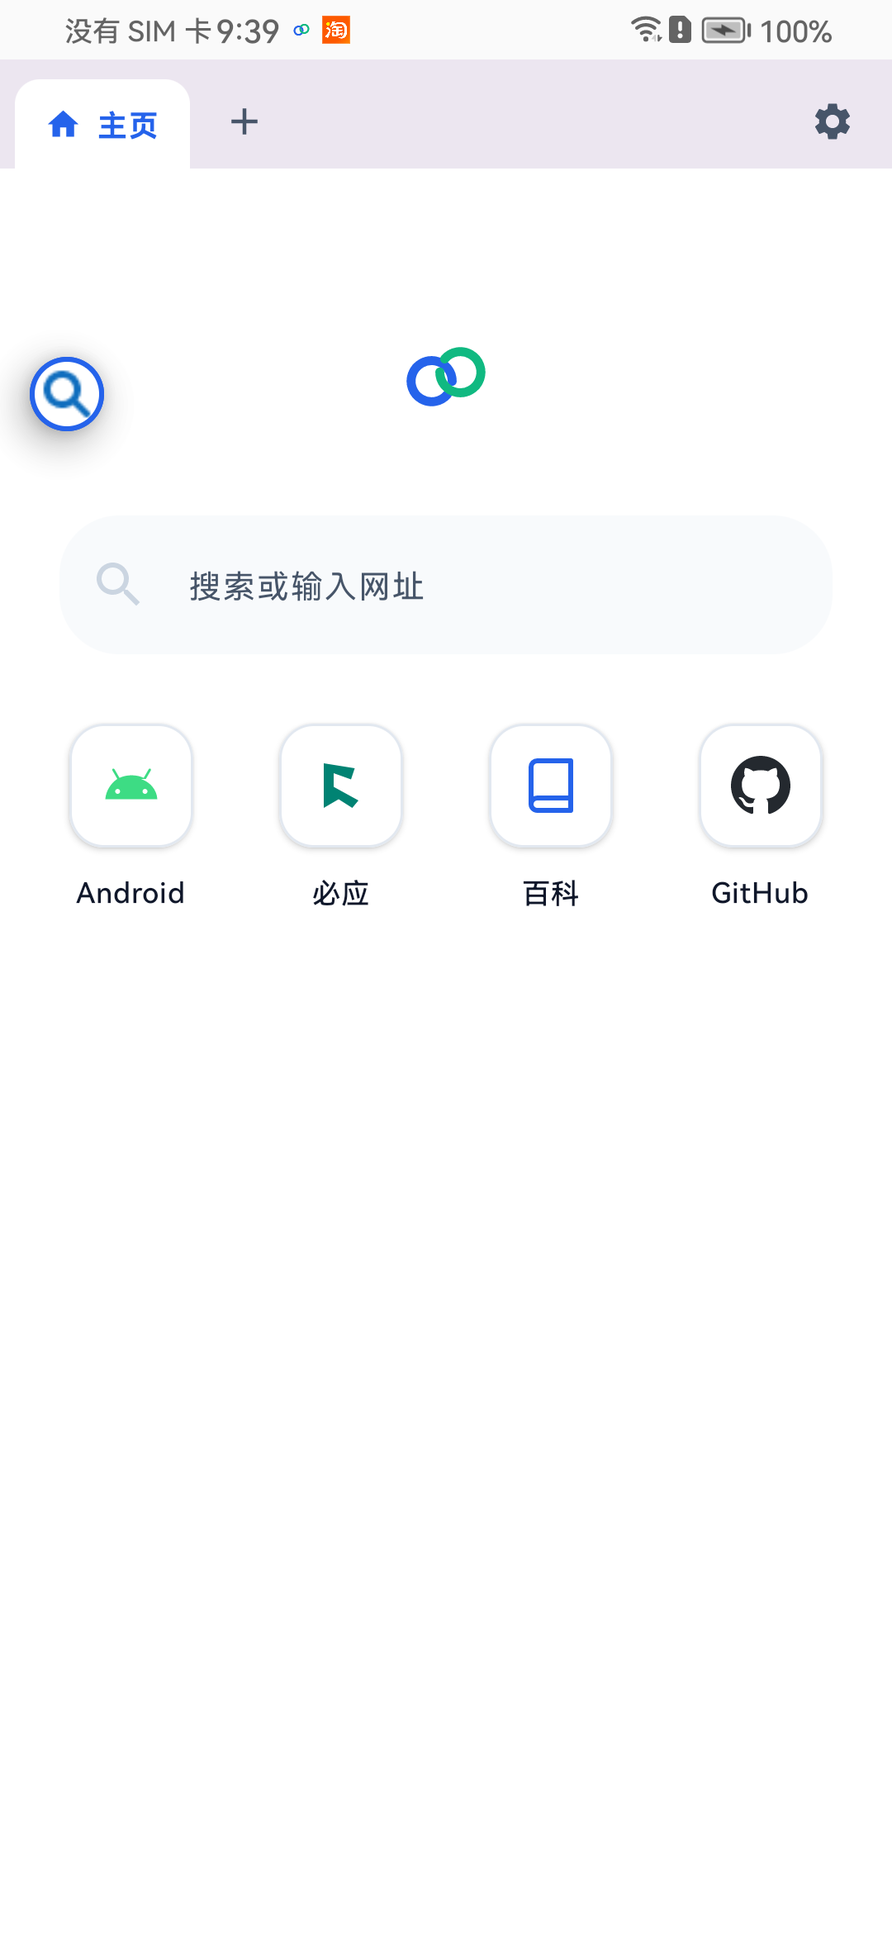
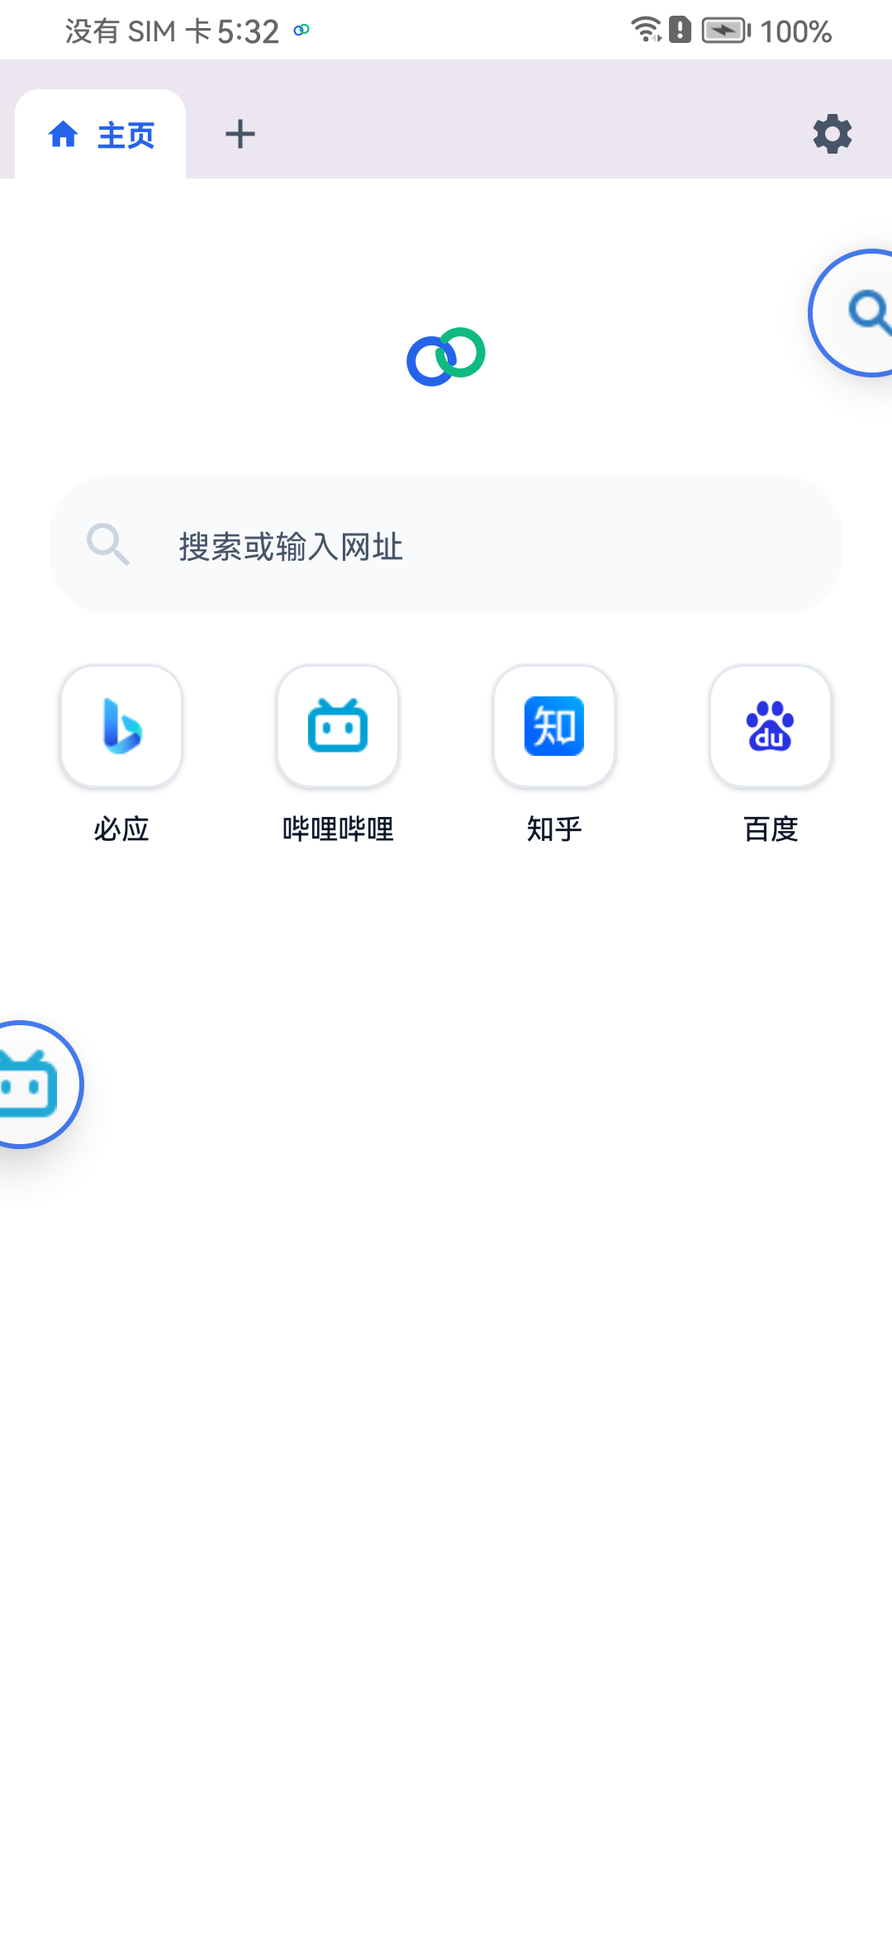
docs: update README with real showcase screenshots, concise factual copy, and English version

diff --git a/README.md b/README.md
@@ -1,145 +1,95 @@
 # FloatBro
 
-> **现代 Android 原生全局悬浮、对等双视口分屏、纯 C++ 规则引擎拦截的高性能多任务浏览器**
+[English](README_EN.md) | [简体中文](README.md)
+
+> 现代轻量级 Android 全局网页悬浮多任务浏览器。
 
 [![Latest Release](https://img.shields.io/github/v/release/gxwane/floatbro?include_prereleases&color=orange&label=Latest%20Release)](https://github.com/gxwane/floatbro/releases)
 [![Build Status](https://img.shields.io/github/actions/workflow/status/gxwane/floatbro/pr-checks.yml?branch=main&label=Build%20Status)](https://github.com/gxwane/floatbro/actions)
 [![License: GPL v3](https://img.shields.io/badge/License-GPLv3-blue.svg)](https://www.gnu.org/licenses/gpl-3.0)
 [![Android MinSdk](https://img.shields.io/badge/minSdk-26-green.svg)](https://developer.android.com/about/versions/oreo)
 [![TargetSdk](https://img.shields.io/badge/targetSdk-36-brightgreen.svg)](https://developer.android.com)
-[![Kotlin](https://img.shields.io/badge/Kotlin-2.1.20-blue.svg)](https://kotlinlang.org)
-[![Compose](https://img.shields.io/badge/Jetpack%20Compose-M3-purple.svg)](https://developer.android.com/compose)
-[![16KB Page Size](https://img.shields.io/badge/Android%2015-16KB%20Aligned-success.svg)](https://developer.android.com/guide/practices/page-sizes)
 
 ---
 
-## 📸 界面预览 (Showcase)
+## 📸 界面预览
 
-| 🪟 全局独立悬浮 | ➗ 对称双视口分屏 | 🫧 贴边磁吸小气泡 |
+| 🪟 全局独立悬浮 | 🪟 多悬浮窗同屏 | 🫧 贴边磁吸气泡 |
 | :---: | :---: | :---: |
-| ![FloatBro Window](docs/images/floatbro_window.png) | ![FloatBro Split](docs/images/floatbro_split.png) | ![FloatBro Bubble](docs/images/floatbro_bubble.png) |
+| ![FloatBro Window](docs/images/floatbro_window.png) | ![FloatBro Multi](docs/images/floatbro_multi.png) | ![FloatBro Bubble](docs/images/floatbro_bubble.png) |
 
 ---
 
-## 📥 下载体验 (Download)
+## ✨ 核心特性
 
-* 🚀 **[前往 GitHub Releases 下载最新安装包](https://github.com/gxwane/floatbro/releases)**
-* 📦 **包体积**：约 2.6 MB（C++ 原生优化，极致轻量）
-* 🛡 **安全保证**：全面支持 Android 8.0 ~ Android 16，具备官方正式发布私钥签名，严格通过 Android 15 16KB Page Size 内存对齐检验。
-
----
-
-## ✨ 核心特性 (Features)
-
-1. **网页即浮窗（零主应用外壳包袱）**：
-   - 基于 `SYSTEM_ALERT_WINDOW` 与前台服务，点击直接以独立系统顶层浮窗运行，无需受困于笨重的浏览器全屏外壳；
-   - 右下角配备专属拖拽抓手（Resize Handle），手指触控自由缩放尺寸与纵横比；
-   - 动态焦点桥接（InputFocusBridge）：网页表单与地址栏输入时精准唤起软键盘，失焦自动恢复底层宿主应用触控穿透。
-
-2. **对等双视口真分屏（Symmetric Split-View）**：
-   - 拒绝两个散装乱飘的拼图浮窗；双视口各自持有独立的标签页与前进/后退历史栈；
-   - 内置 Windows 风格中线分割条，实时支持 15%~85% 比例动态分配，双击中线居中 50:50 复位；
-   - 支持跨视口调度：主视口长按超链接可一键“在对侧视口打开”。
-
-3. **原生 C++ 规则过滤引擎（Native Ad-Blocking）**：
-   - 底层集成独立 C++ 算法引擎（`:adblock-client`），利用 BloomFilter 与哈希表实现亚毫秒级 URL 规则匹配；
-   - 原生支持 Chromium CSS `:has()` 伪类与元素隐藏语法，精准剔除广告 DOM 节点与留白；
-   - 内置安全规则脱敏机制，确保主流音视频站与内容站点正常加载渲染。
-
-4. **空间物理手势与交互动效 (Spatial Physics & Gestures)**：
-   - **贴边折叠**：向屏幕边缘拖动自动触发 200ms 减速平滑吸附，外推超出阈值自动折叠为 52dp 贴边磁吸气泡；
-   - **秒级复原**：轻触边缘气泡，网页原地秒级展开复原；
-   - **拖拽销毁**：向下拖拽触发屏幕底部高保真红色圆形靶心，命中释放彻底关闭浮窗与释放后台进程。
-
-5. **现代 Material 3 与高刷适配 (Modern UI & 120Hz)**：
-   - 彻底解耦黑白墨水屏限制，全面拥抱 Material 3 设计系统与全彩深浅色主题自适应；
-   - 所有菜单与设置弹窗均基于内嵌 Compose 图层渲染，彻底规避后台悬浮窗环境下的 `BadTokenException` 崩溃；
-   - 浏览历史记录全面接入 `StateFlow` 响应式数据流，浮窗关闭或跳转时主控中心即时秒级同步。
-
-6. **Android 15/16 严苛标准对齐 (16KB Page Size Aligned)**：
-   - 全架构（arm64-v8a、armeabi-v7a、x86、x86_64）编译参数强制注入 `-Wl,-z,max-page-size=16384`；
-   - 严格通过 Google 官方 `alignment.sh` ELF 16KB 分页对齐验证，确保在 Android 15+ 新旗舰机型上高效运行。
+* **全局独立悬浮**：脱离常规浏览器全屏限制，以系统顶层浮窗伴随其他应用运行；主应用内长按标签页可直接撕下弹出为独立浮窗。
+* **多悬浮窗同屏并存**：打破移动端单小窗限制，支持同屏多开独立网页悬浮窗，或在屏幕边缘挂载多个贴边气泡。
+* **触控自由缩放**：拖动窗口右下角手柄，自由无级调整悬浮窗尺寸与长宽比。
+* **贴边折叠与快速销毁**：悬浮窗推向屏幕边缘自动折叠为贴边气泡，点击即刻原地展开；向下拖动至屏幕底部靶心即可快速关闭。
+* **网页视频全屏控制**：网页视频全屏播放时顶层常驻控制胶囊与缩放手柄，小窗下依然可自由拖拽与调整大小。
+* **原生规则广告拦截**：集成 C++ 算法引擎，支持 EasyList 规则匹配与 CSS 元素隐藏，毫秒级过滤广告并移除占位。
+* **现代 Material 3 设计**：主控中心支持多标签页与历史记录即时同步，深浅主题自适应，原生兼容 Android 15 16KB 分页内存标准。
 
 ---
 
-## 💡 核心手势与操作指南 (Gestures Guide)
+## 💡 交互手势指南
 
-| 交互动作 | 操作手势 | 预期响应 |
+| 交互操作 | 操作方式 | 响应效果 |
 | :--- | :--- | :--- |
-| **自由缩放** | 按住窗口右下角三槽抓手拖动 | 实时无级改变窗口宽度与高度（受 0.45~2.20 纵横比安全保护） |
-| **分屏重排** | 拖动双视口之间的垂直/水平中线 | 实时重新分配双视口宽度比例 (15% ~ 85%) |
-| **分屏复位** | 双击分屏中线分割条 | 瞬间平滑恢复 50:50 对称等宽布局 |
-| **贴边吸附** | 拖拽浮窗至屏幕左侧或右侧松手 | 窗口执行 200ms 减速贴靠动画并轻微震动反馈 |
-| **折叠为气泡** | 拖拽浮窗向左/右外推超过 40% 宽度 | 自动收缩为 52dp 贴边圆形磁吸气泡 (Bubble) |
-| **还原气泡** | 单击屏幕边缘的悬浮气泡 | 气泡原地展开还原为完整悬浮窗视口 |
-| **拖拽关闭** | 按住顶栏向屏幕底部拖动 | 底部浮现红色垃圾桶靶心，命中释放后安全销毁并退出 |
-| **视频全屏控制** | 网页 HTML5 视频进入全屏时 | 顶部自动浮现半透明居中胶囊（支持拖动窗口与一键退出），右下角缩放手柄常驻可用 |
+| **窗口缩放** | 拖动右下角手柄 | 自由调整悬浮窗尺寸与长宽比 |
+| **贴边折叠** | 拖动浮窗推向屏幕边缘 | 自动收起为贴边气泡，释放屏幕空间 |
+| **还原气泡** | 单击屏幕边缘的悬浮气泡 | 原地展开还原为悬浮窗 |
+| **拖拽关闭** | 拖动浮窗向屏幕底部移动 | 移入底部关闭靶心释放即可退出 |
+| **全屏视频控制** | 网页视频进入全屏时 | 顶部浮现居中控制胶囊，支持拖拽与退出全屏 |
 
 ---
 
-## 🛠 从源码编译构建 (Building from Source)
+## 📥 获取安装包
 
-### 1. 前置环境要求 (Prerequisites)
-- **JDK**：17 (推荐 [Eclipse Temurin 17](https://adoptium.net/))
-- **Android SDK**：CompileSdk 36, TargetSdk 36, MinSdk 26
-- **Android NDK**：r27c (`27.2.12479018`)
-- **CMake**：3.22.1+
-- **Gradle**：8.14 (由项目自带的 `gradlew` 包装器自动管理)
+* 前往 **[GitHub Releases](https://github.com/gxwane/floatbro/releases)** 下载最新 APK 安装包。
+* **系统要求**：Android 8.0 (API 26) 及更高版本（兼容 Android 15 与 Android 16）。
 
-### 2. 构建与测试命令 (Build Commands)
+---
+
+## 🛠 从源码编译
+
+### 环境要求
+* **JDK**：17
+* **Android SDK**：CompileSdk 36, TargetSdk 36, MinSdk 26
+* **Android NDK**：27.0.12077973 (r27)
+* **CMake**：3.22.1+
+
+### 构建命令
 ```bash
-# 克隆代码仓库
 git clone https://github.com/gxwane/floatbro.git
 cd floatbro
 
-# 运行全量纯 JVM 毫秒级单元测试套件
+# 运行单元测试
 ./gradlew testDebugUnitTest
 
-# 编译 Debug 版 APK
+# 编译 Debug APK
 ./gradlew assembleDebug
-
-# 产物输出路径: app/build/outputs/apk/debug/app-debug.apk
+# 输出路径: app/build/outputs/apk/debug/app-debug.apk
 ```
 
 ---
 
-## 🏗 工程多模块架构 (Architecture)
-
-FloatBro 采用清晰的无环单向依赖多模块架构：
+## 🏗 模块架构
 
 ```text
 FloatBro/
-├── app/                  # [应用宿主] FloatBrowserService 前台服务、FloatingWindowView、FloatingBubbleView、内嵌 Compose 浮层
+├── app/                  # 应用宿主、LauncherActivity、FloatBrowserService、悬浮窗与气泡
 ├── core/
-│   ├── webview/          # [视口核心] 对称双视口真分屏 (TwoPaneLayout)、EBWebView 内核封装、InputFocusBridge 焦点桥接
-│   └── common/           # [通用基础] Material 3 主题令牌、DisplayUtils 边界测量、DataStore 配置中心
-├── ad-filter/            # [规则调度] EasyList 解析、CSS :has 注入、网络拦截器 (Pure Kotlin)
-├── adblock-client/       # [C++ 原生] BloomFilter 算法匹配、libadblock-client.so、16KB 分页对齐 (CMake)
-├── docs/                 # [项目文档] 架构规约、设计技术规范、实机展示资源
-└── gradle/
-    └── libs.versions.toml # 依赖版本字典 (Version Catalog)
+│   ├── webview/          # EBWebView 内核封装、软键盘焦点管理
+│   └── common/           # Material 3 基础令牌、屏幕测量与配置持久化
+├── ad-filter/            # EasyList 规则解析、CSS 注入与拦截器
+├── adblock-client/       # C++ 规则匹配引擎 (libadblock-client.so)
+└── docs/                 # 架构规约、设计技术规范与图片资源
 ```
 
 ---
 
-## 🤝 参与贡献 (Contributing)
+## ⚖ 开源协议与鸣谢
 
-欢迎任何形式的开源贡献！无论是提交缺陷报告、建议新特性，还是直接发起 Pull Request：
-1. 报告 Bug 或提出建议，请前往 [GitHub Issues](https://github.com/gxwane/floatbro/issues)；
-2. 提交代码变更前，请先确保本地 `./gradlew testDebugUnitTest` 测试通过；
-3. 遵循现有的代码风格与 [Keep a Changelog](https://keepachangelog.com/zh-CN/1.0.0/) 变更记录规范。
-
----
-
-## ⚖ 开源协议与致敬基石 (License & Attribution)
-
-FloatBro 是一个遵循 **[GNU General Public License v3.0 (GPL-3.0-or-later)](LICENSE)** 的自由开源软件。
-
-本项目是在杰出的开源墨水屏浏览器项目 **[EinkBro](https://github.com/plateaukao/einkbro)**（原作者：**[Plateau Kao](https://github.com/plateaukao)**）的基础上深度演进重构而来。FloatBro 继承了 EinkBro 优秀的去广告内核设计思想与分屏雏形，并针对现代通用 Android 智能手机场景实现了全面升级与独立悬浮架构改造。
-
-我们向原作者 **Plateau Kao** 以及 EinkBro 社区贡献者致以最崇高的敬意与感谢！
-
-> **语源注记 (Naming Note)**：
-> **FloatBro** 命名由 **Float**（系统级全局悬浮）与 **Browser**（继承自开源基石 EinkBro 中 Browser 之缩写 “bro”）组合而成，代表专注于系统全局悬浮形态的高性能移动浏览器。项目名称中 “bro” 仅代表浏览器 (Browser)，绝无“兄弟”之意。
->
-> **免责声明**：FloatBro 是一个独立的衍生项目，由 FloatBro 开源社区独立维护，未经 EinkBro 原作者官方背书，亦不代表 EinkBro 官方立场。
+* **开源协议**：本项目基于 **[GNU General Public License v3.0 (GPL-3.0-or-later)](LICENSE)** 开源。
+* **鸣谢**：FloatBro 的去广告内核源自开源墨水屏浏览器 **[EinkBro](https://github.com/plateaukao/einkbro)**。在此向原作者 **[Plateau Kao](https://github.com/plateaukao)** 及 EinkBro 社区的杰出工作致敬。

diff --git a/README_EN.md b/README_EN.md
@@ -1,0 +1,95 @@
+# FloatBro
+
+[English](README_EN.md) | [简体中文](README.md)
+
+> A lightweight, modern floating multitasking browser for Android.
+
+[![Latest Release](https://img.shields.io/github/v/release/gxwane/floatbro?include_prereleases&color=orange&label=Latest%20Release)](https://github.com/gxwane/floatbro/releases)
+[![Build Status](https://img.shields.io/github/actions/workflow/status/gxwane/floatbro/pr-checks.yml?branch=main&label=Build%20Status)](https://github.com/gxwane/floatbro/actions)
+[![License: GPL v3](https://img.shields.io/badge/License-GPLv3-blue.svg)](https://www.gnu.org/licenses/gpl-3.0)
+[![Android MinSdk](https://img.shields.io/badge/minSdk-26-green.svg)](https://developer.android.com/about/versions/oreo)
+[![TargetSdk](https://img.shields.io/badge/targetSdk-36-brightgreen.svg)](https://developer.android.com)
+
+---
+
+## 📸 Showcase
+
+| 🪟 Floating Window | 🪟 Multi-Window | 🫧 Edge Bubble |
+| :---: | :---: | :---: |
+| ![FloatBro Window](docs/images/floatbro_window.png) | ![FloatBro Multi](docs/images/floatbro_multi.png) | ![FloatBro Bubble](docs/images/floatbro_bubble.png) |
+
+---
+
+## ✨ Features
+
+* **System-Wide Floating Window**: Browse the web freely on top of any app without full-screen browser interruption. Tear tabs off from the main app directly into floating overlays.
+* **Concurrent Multi-Window & Bubbles**: Run multiple independent floating browser windows simultaneously, or pin multiple bubbles along the screen edge.
+* **Fluid Resize Handle**: Drag the bottom-right corner handle to smoothly adjust window dimensions and aspect ratio.
+* **Edge Snap, Collapse & Quick Dismiss**: Push a window against the screen edge to collapse it into a floating bubble, and tap to instantly restore. Drag down to the bottom target to quickly dismiss.
+* **Fullscreen Video Controls**: Floating controls and resize handle remain accessible when playing HTML5 videos in fullscreen, allowing repositioning and resizing anytime.
+* **Native C++ Ad Blocking**: Built-in C++ matching engine supporting EasyList filter rules and CSS element hiding for fast, clean browsing.
+* **Modern Material 3 Design**: Complete tab management, reactive history sync, dynamic dark/light themes, and full compatibility with Android 15 16KB memory page size.
+
+---
+
+## 💡 Gestures Guide
+
+| Action | Gesture | Result |
+| :--- | :--- | :--- |
+| **Resize Window** | Drag bottom-right corner handle | Freely adjust window size and aspect ratio |
+| **Collapse to Bubble** | Push window past screen edge | Collapses into an edge bubble to clear screen space |
+| **Restore Window** | Tap the edge bubble | Expands bubble back into a floating window |
+| **Dismiss Window** | Drag window toward bottom of screen | Releases onto the dismiss target to close |
+| **Fullscreen Video Control** | When web video enters fullscreen | Centered top capsule pill appears for dragging and exiting fullscreen |
+
+---
+
+## 📥 Download
+
+* Download the latest APK release from **[GitHub Releases](https://github.com/gxwane/floatbro/releases)**.
+* **Requirements**: Android 8.0 (API 26) or higher (compatible with Android 15 & 16).
+
+---
+
+## 🛠 Building from Source
+
+### Requirements
+* **JDK**: 17
+* **Android SDK**: CompileSdk 36, TargetSdk 36, MinSdk 26
+* **Android NDK**: 27.0.12077973 (r27)
+* **CMake**: 3.22.1+
+
+### Build Commands
+```bash
+git clone https://github.com/gxwane/floatbro.git
+cd floatbro
+
+# Run unit tests
+./gradlew testDebugUnitTest
+
+# Assemble Debug APK
+./gradlew assembleDebug
+# Output path: app/build/outputs/apk/debug/app-debug.apk
+```
+
+---
+
+## 🏗 Architecture
+
+```text
+FloatBro/
+├── app/                  # Application host, LauncherActivity, FloatBrowserService, floating windows & bubbles
+├── core/
+│   ├── webview/          # EBWebView engine wrapper, soft-keyboard focus coordination
+│   └── common/           # Material 3 tokens, display metrics & preferences persistence
+├── ad-filter/            # EasyList parsing, CSS injection & interception pipeline
+├── adblock-client/       # C++ rule matching engine (libadblock-client.so)
+└── docs/                 # Architecture specifications, technical design & showcase assets
+```
+
+---
+
+## ⚖ License & Acknowledgements
+
+* **License**: FloatBro is licensed under the **[GNU General Public License v3.0 (GPL-3.0-or-later)](LICENSE)**.
+* **Acknowledgements**: FloatBro's ad-blocking core is inspired by and adapted from the open-source E-ink browser **[EinkBro](https://github.com/plateaukao/einkbro)**. Special thanks to original author **[Plateau Kao](https://github.com/plateaukao)** and the EinkBro community for their exceptional work.

diff --git a/CHANGELOG.md b/CHANGELOG.md
@@ -6,7 +6,8 @@
 ## [Unreleased]
 
 ### Added
-- 支持平板与大屏设备自适应多视口展开态布局。
+- **多语言文档支持**：提供中英文双语官方文档 ([README.md](README.md) 与 [README_EN.md](README_EN.md))；
+- **实机展示资源刷新**：录入真实设备实测单浮窗、多浮窗同屏与贴边气泡展示截图。
 
 ---
 
@@ -30,11 +31,11 @@
 
 ### Added
 - **系统级独立悬浮窗体系**：基于 `SYSTEM_ALERT_WINDOW` 与前台服务构建独立悬浮窗宿主，摆脱主应用全屏外壳限制；
-- **对等双视口真分屏**：`TwoPaneLayout` 全面升级，支持双独立历史栈与前进/后退控制器，内置可拖拽中线分割条，支持 15%~85% 比例动态调整与双击 50:50 复位；
-- **空间物理手势与交互动效**：实现右下角 48dp 专属缩放抓手、贴边 200ms 减速吸附、52dp 贴边磁吸小气泡折叠与秒级复原，以及屏幕底部高保真圆形拖拽销毁靶心；
+- **多任务独立悬浮窗**：支持多浮窗同屏独立并存与多气泡并发挂载；
+- **手势交互与贴边动效**：实现右下角专属缩放手柄、贴边减速吸附、贴边磁吸小气泡折叠与秒级复原，以及屏幕底部拖拽销毁靶心；
 - **原生 C++ 去广告内核**：集成 BloomFilter C++ 规则匹配引擎，支持 EasyList 与 Chromium CSS `:has()` 伪类元素隐藏，全架构强制执行 Android 15 16KB Page Size 内存对齐；
-- **现代 Material 3 体验**：全套深浅双模主题，重构极简搜索主控中心，内嵌 Compose 浮层彻底消除后台悬浮环境下的 `BadTokenException` 崩溃；
-- **多级返回键调度**：`BackNavigationDispatcher` 纯领域决策器，实现“菜单收起 -> 副屏后退 -> 主屏后退 -> 智能最小化气泡”四级返回分发；
+- **现代 Material 3 体验**：全套深浅双模主题，重构搜索主控中心，内嵌 Compose 浮层杜绝后台悬浮环境下的崩溃；
+- **多级返回键调度**：`BackNavigationDispatcher` 纯领域决策器，实现“视频退出全屏 -> 网页历史后退 -> 智能最小化气泡”多级返回分发；
 - **生产级构建工程化**：建立 R8 混淆规则、16KB 内存对齐校验流水线与全自动化 GitHub Actions 发布体系。
 
 [Unreleased]: https://github.com/gxwane/floatbro/compare/v0.1.1-beta...HEAD

diff --git a/docs/ARCHITECTURE.md b/docs/ARCHITECTURE.md
@@ -11,7 +11,7 @@ FloatBro 采用现代 Android 多模块架构，严格遵循**无环依赖原则
 ```mermaid
 graph TD
     App[":app<br>(系统悬浮服务、手势调度、Compose浮层)"]
-    WebView[":core:webview<br>(EBWebView内核、TwoPaneLayout对称分屏)"]
+    WebView[":core:webview<br>(EBWebView内核封装、网页加载与焦点桥接)"]
     AdFilter[":ad-filter<br>(去广告规则解析、元素隐藏、Scriptlets)"]
     Common[":core:common<br>(基础实体、通用工具类)"]
     AdBlockClient[":adblock-client<br>(C++ BloomFilter引擎、JNI、16KB对齐)"]
@@ -40,7 +40,7 @@ graph TD
 | **`:adblock-client`** | C++17, CMake, NDK r27c, JNI | • 高性能 BloomFilter 与 Hash 规则匹配引擎；<br>• 强制执行 Android 15 16KB Page Size 内存对齐；<br>• **严禁依赖任何上层 Java/Kotlin 类**。 |
 | **`:ad-filter`** | Pure Kotlin, OkHttp, Coroutines | • EasyList 规则下载、本地解析、持久化与规则匹配；<br>• 注入 CSS `:has()` 选择器与反反爬 Scriptlets；<br>• **纯 Kotlin 逻辑，零 Android View 强绑定**。 |
 | **`:core:common`** | Kotlin | • 跨模块共享的数据实体、常量、扩展函数与工具类；<br>• 纯净库，不持有任何 UI 或 WebView 逻辑。 |
-| **`:core:webview`** | Kotlin, AndroidX WebKit | • 硬件加速 `EBWebView` 封装与 Chromium 内核调优；<br>• `InputFocusBridge` DOM 表单聚焦监听桥接；<br>• `TwoPaneLayout` 对称双视口真分屏引擎与拖拽中线。 |
+| **`:core:webview`** | Kotlin, AndroidX WebKit | • 硬件加速 `EBWebView` 封装与 Chromium 内核调优；<br>• `InputFocusBridge` DOM 表单聚焦监听桥接；<br>• 基础视口容器与试验性 `TwoPaneLayout`。 |
 | **`:app`** | Kotlin, Jetpack Compose, Material 3 | • `FloatBrowserService` (前台服务挂载 `TYPE_APPLICATION_OVERLAY`)；<br>• `FloatingWindowView` (窗口主容器) 与 `FloatingBubbleView` (52dp 贴边磁吸气泡)；<br>• 软键盘与底层穿透的动态焦点调度。 |
 
 ---

diff --git a/docs/design/technical_design.md b/docs/design/technical_design.md
@@ -210,4 +210,3 @@ Phase 4: 焦点调优、稳定性加固与正式 Release 发布
    > **FloatBro** is an open-source floating multi-tasking browser based on and inspired by **[EinkBro](https://github.com/plateaukao/einkbro)** (created by Plateau Kao), enhanced with native system overlay service, gesture-driven snap split-screen, and modern mobile UI.  
    > Licensed under **GPL-3.0**.
    * 保留原作者在各源码文件头部的 Copyright 信息，新增修改部分附注 FloatBro Contributors 版权。
-   * 语源明确说明：FloatBro 取自 Float + Browser，其中 bro 为 Browser 之风格化缩写，绝无“兄弟”之意。
